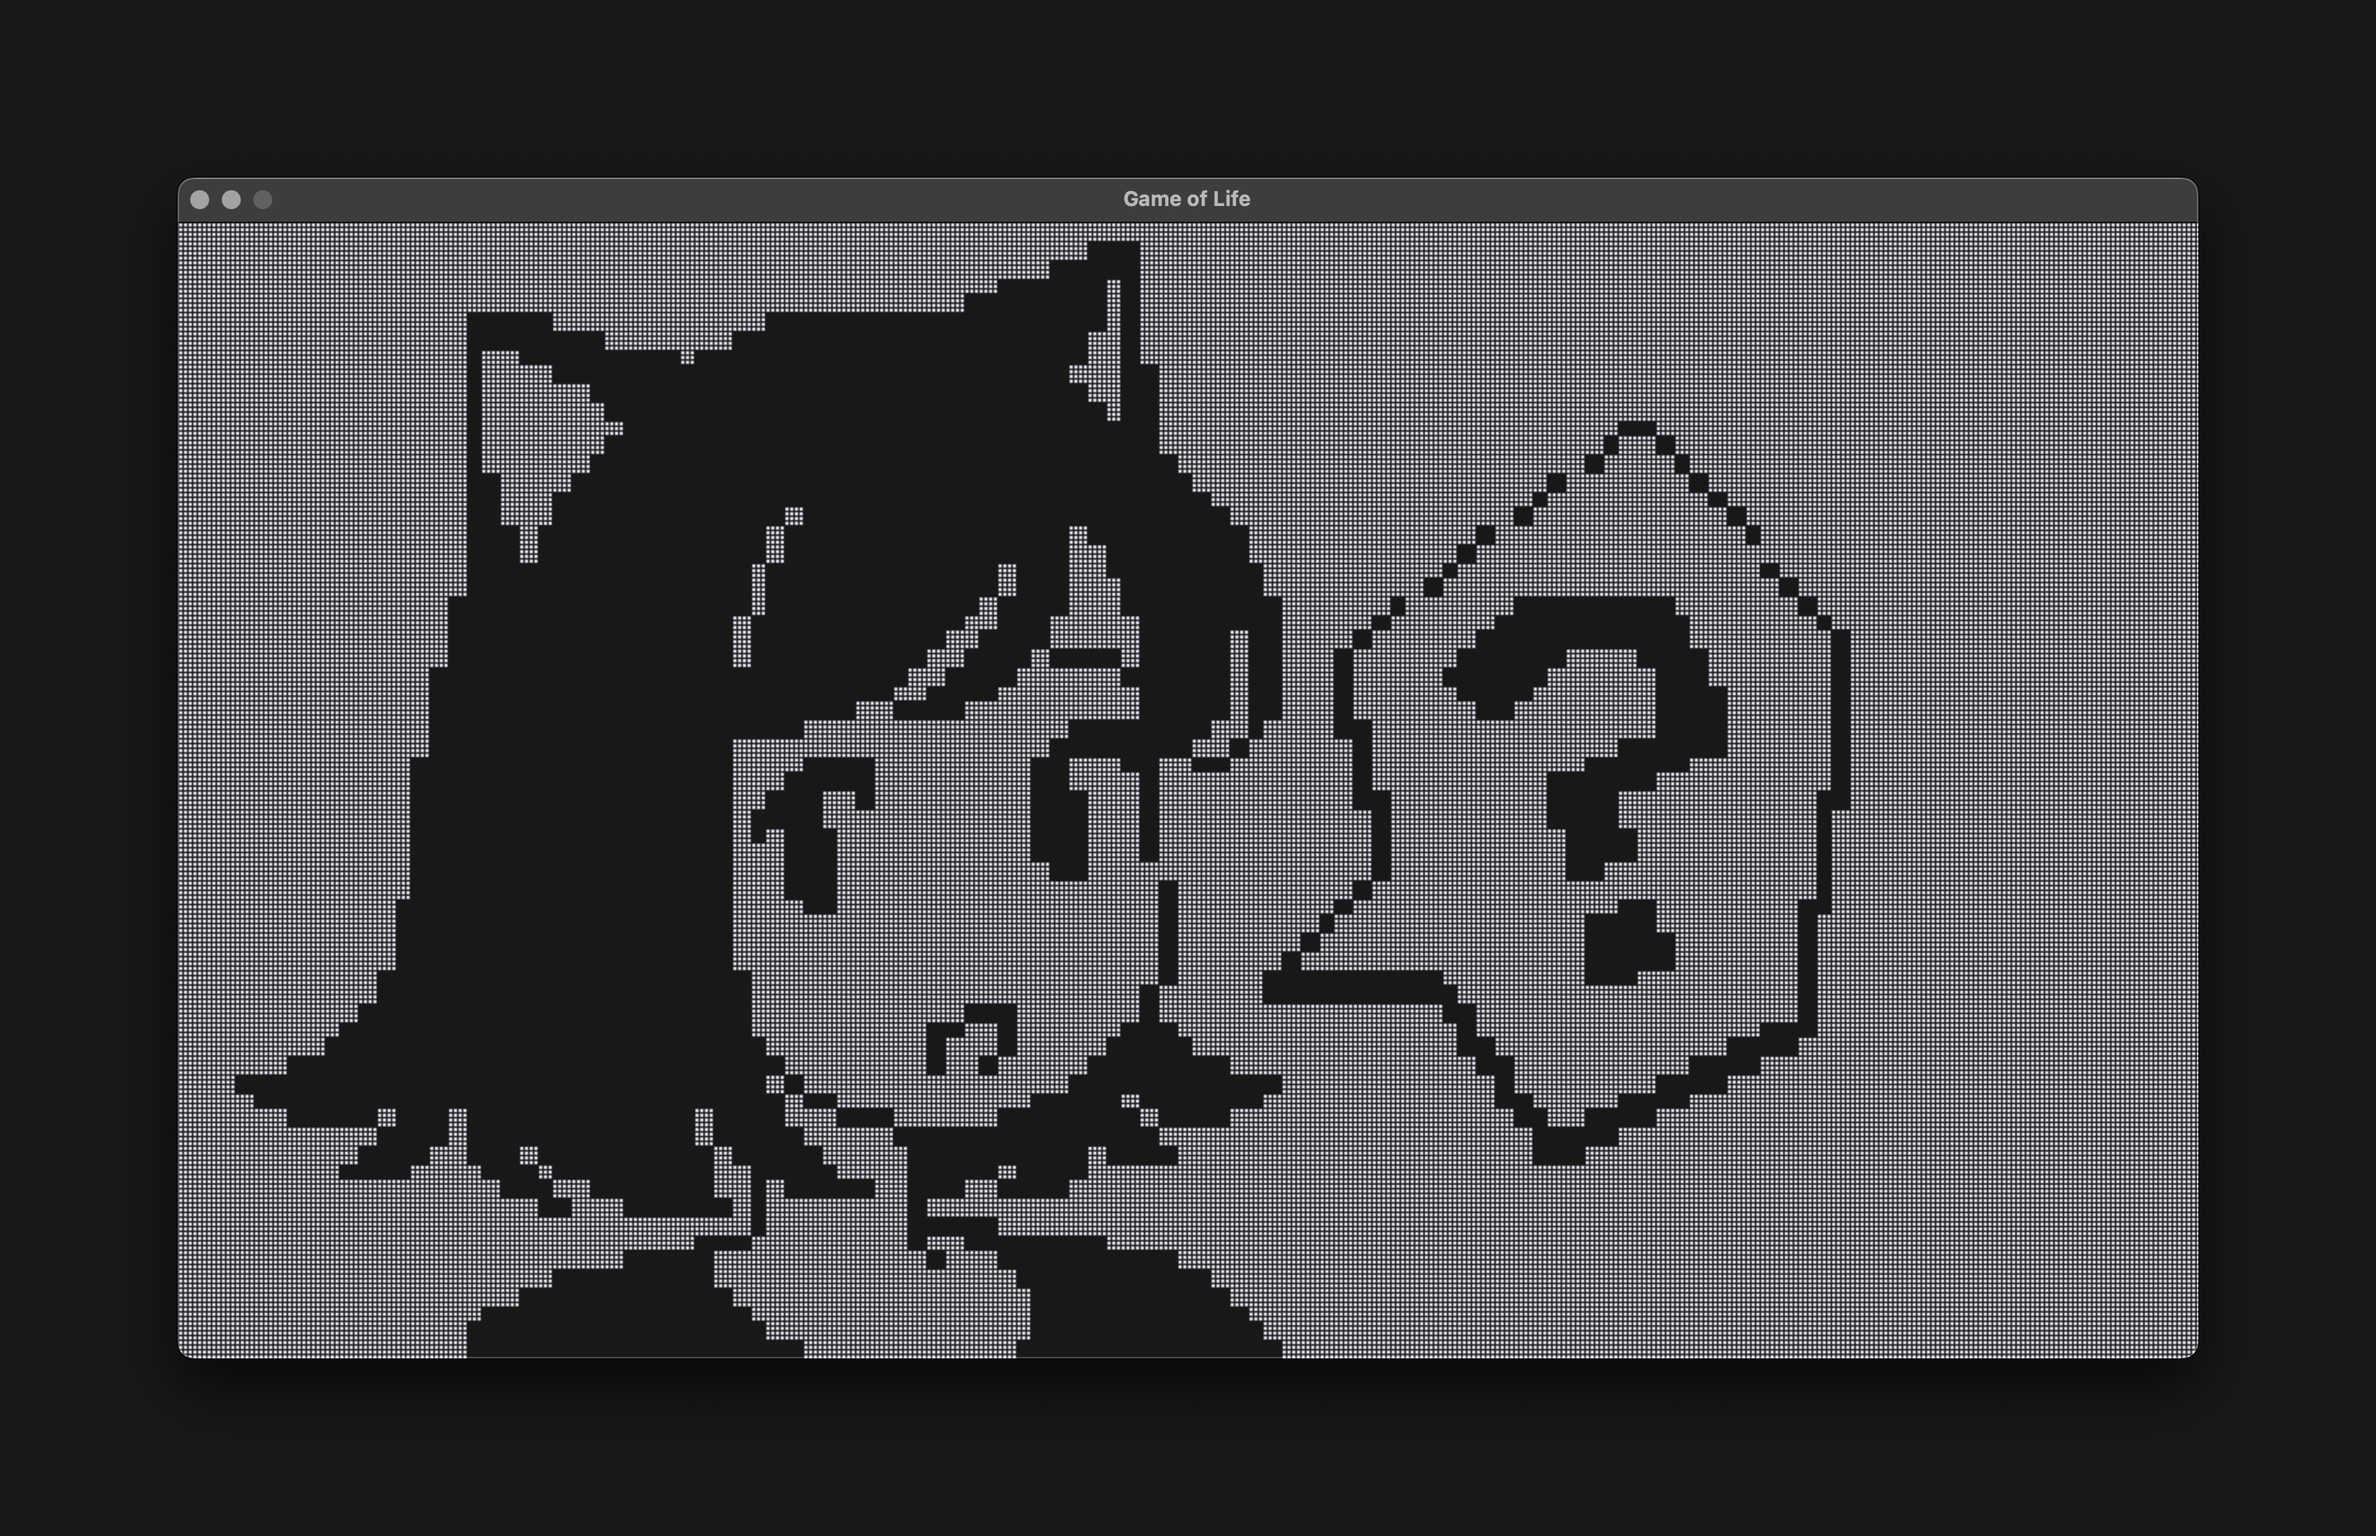
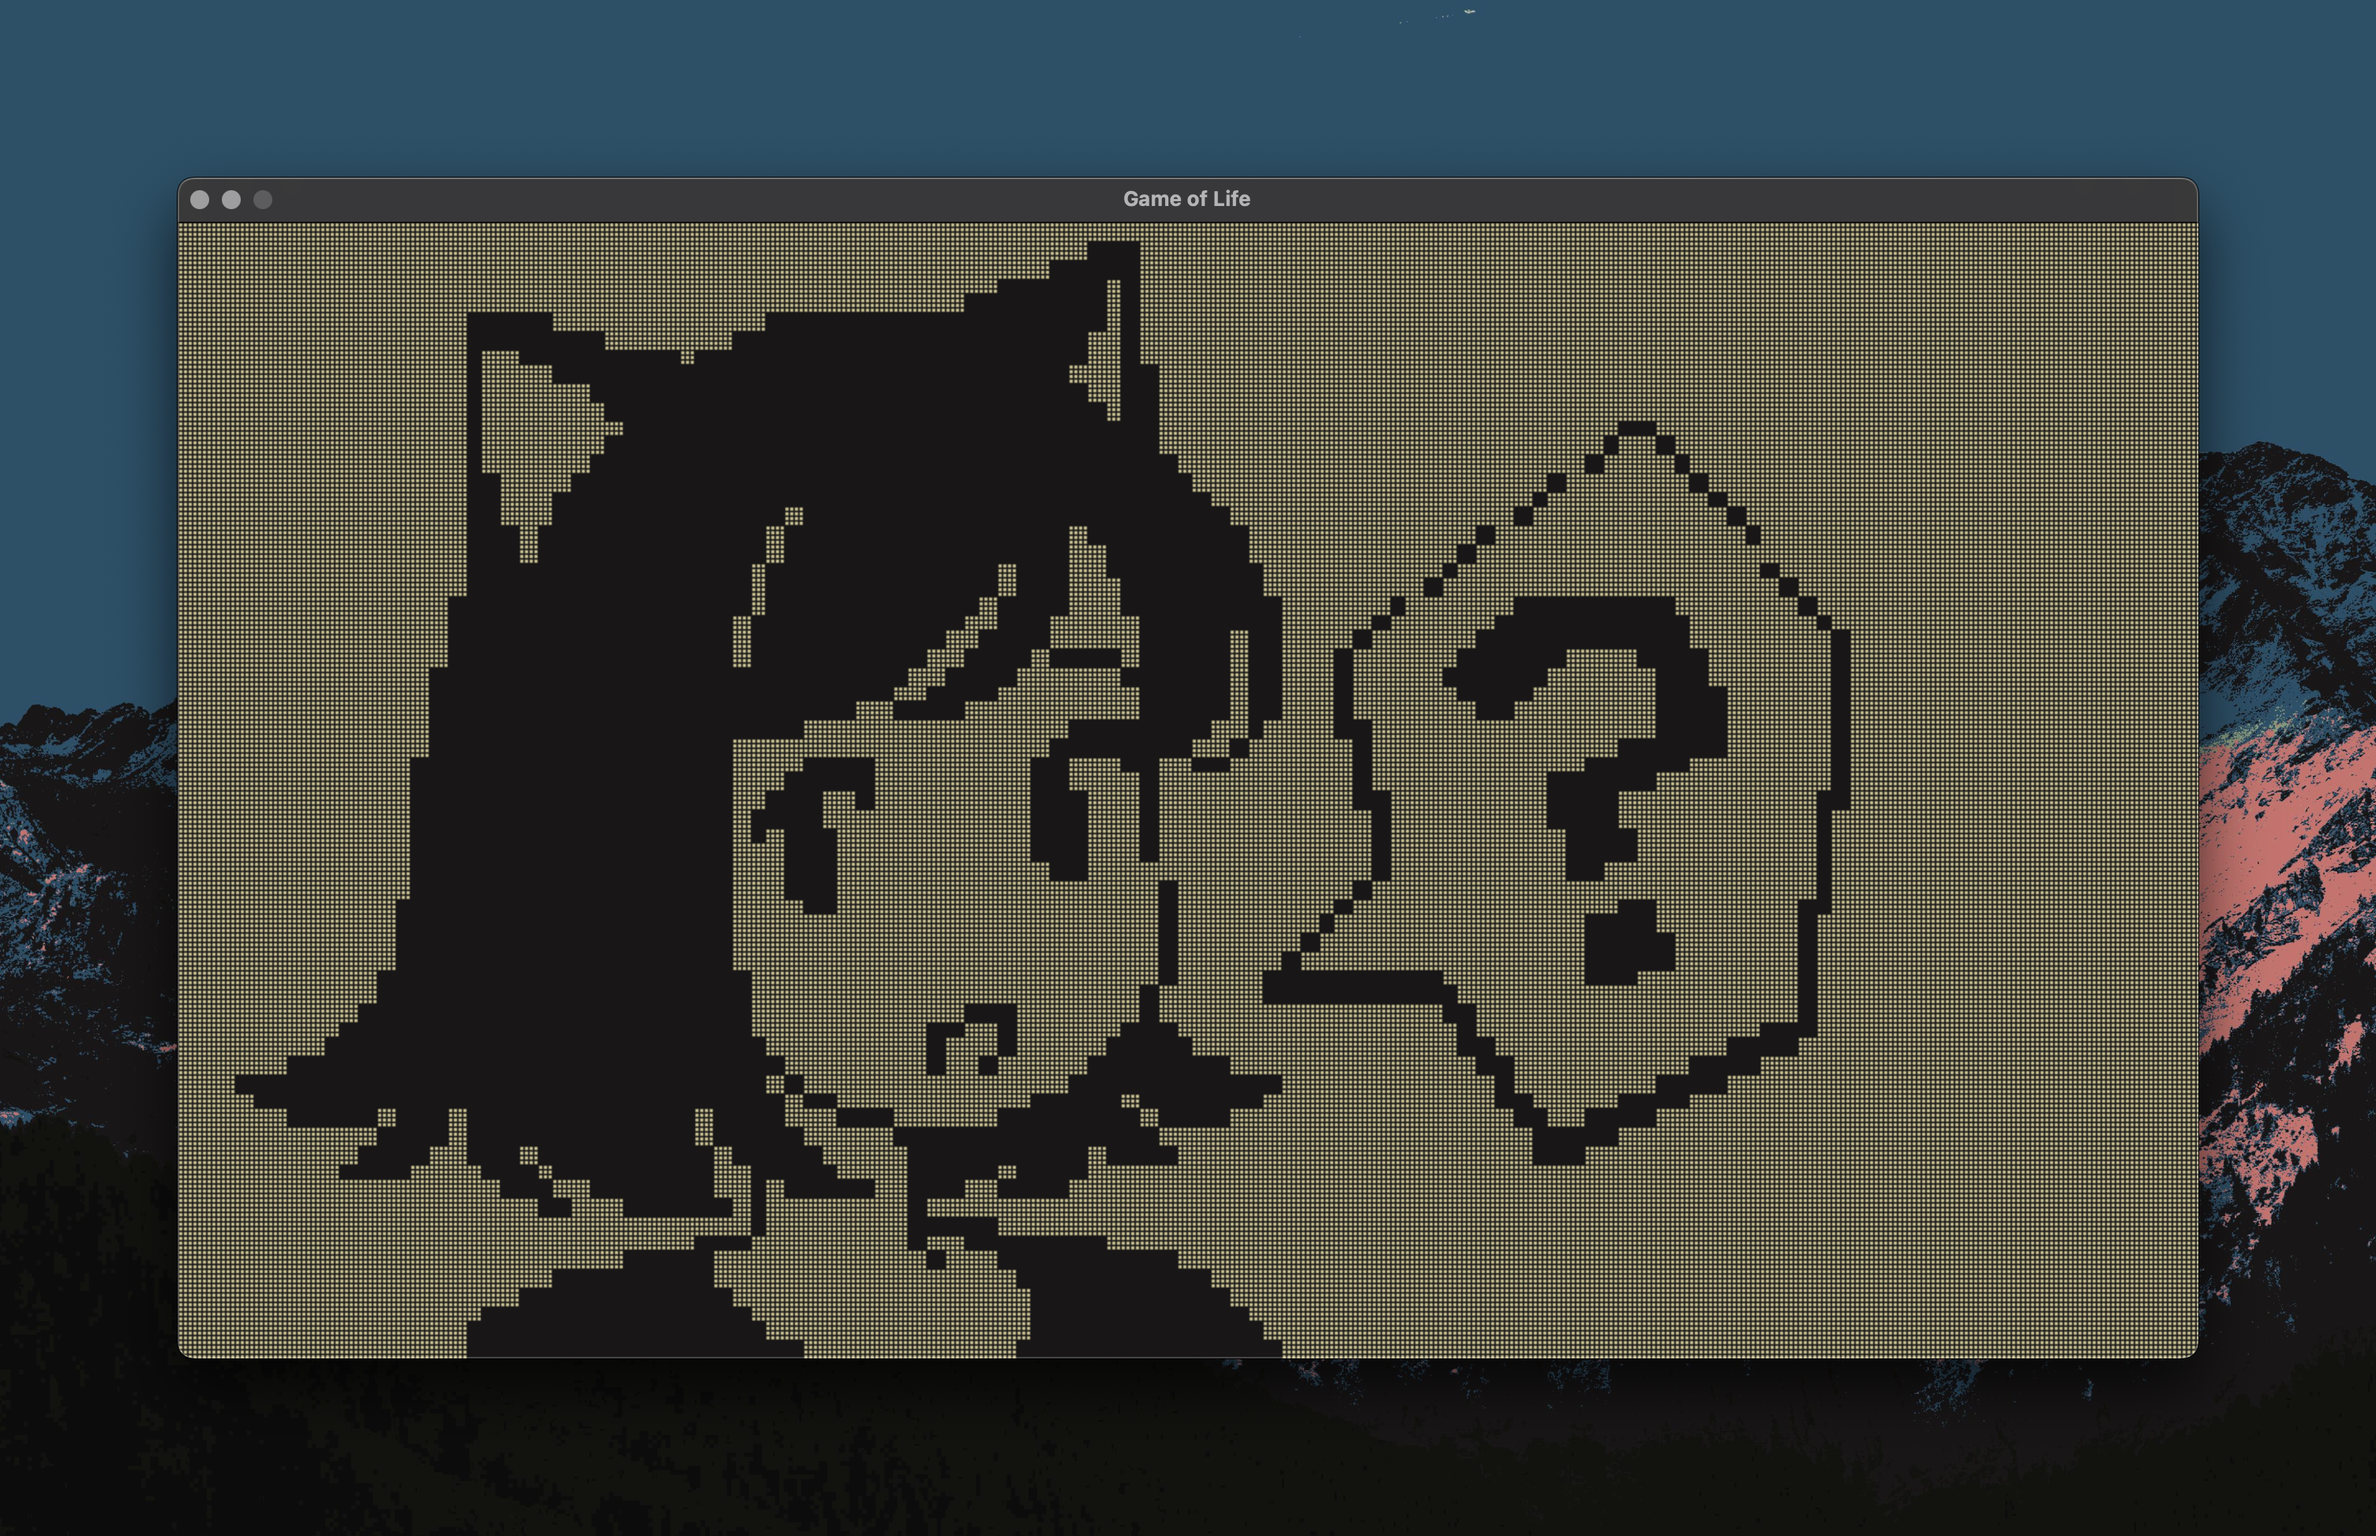
Update README and colors

diff --git a/src/main.c b/src/main.c
@@ -15,8 +15,8 @@
 #define WAIT_TIME (1000/FPS)
 
 bool running = false;
-uint32_t background_color = 0xffe4e4ef;
-uint32_t foreground_color = 0xff181818;
+uint32_t foreground_color = 0xff181616;
+uint32_t background_color = 0xffc8c093;
 
 typedef struct game_state_t {
 	uint8_t *current_cells;
